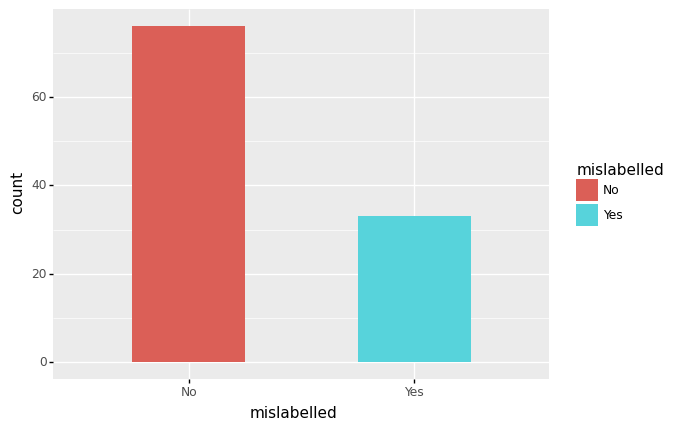
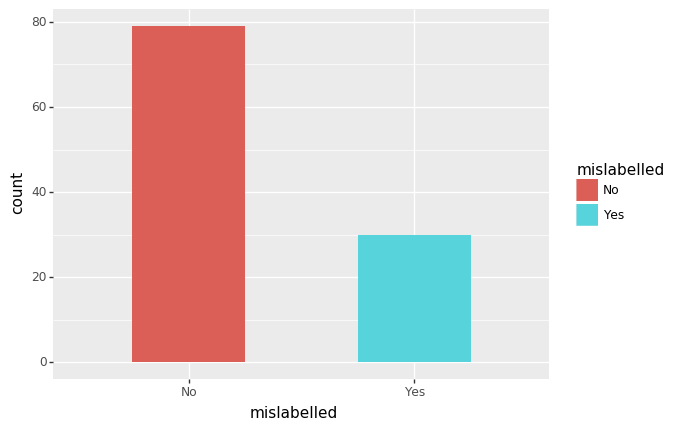
tests passing

diff --git a/src/model.py b/src/model.py
@@ -26,7 +26,7 @@ def tranform_data(bookings):
   df = df[df['route_distance'] < 10000][df['duration'] < pd.Timedelta(1, 'h')]
   df["duration"] = (df["duration"]).dt.seconds
 
-  df = df.query("state!=CANCELED")
+  df = df.query("state!='CANCELED'")
 
   return df
 
